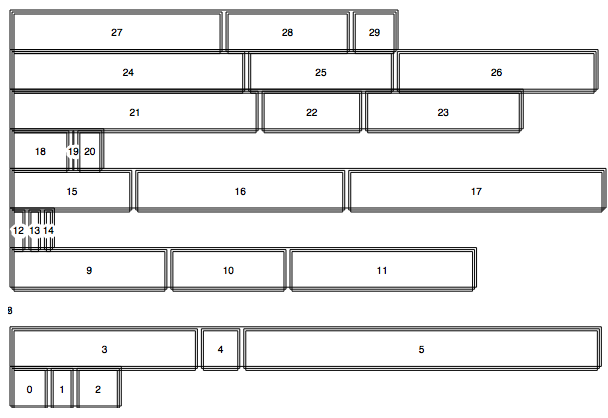
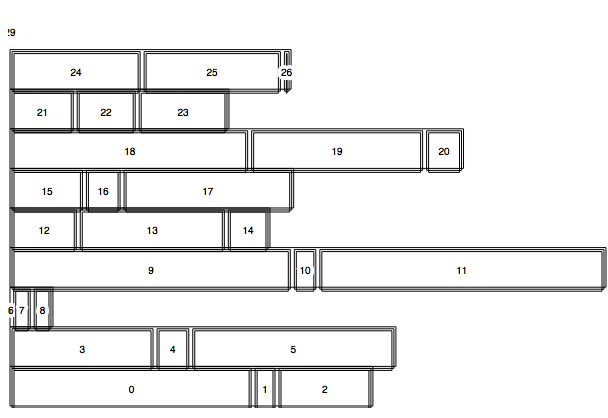
More examples

diff --git a/example/capture/display.html b/example/capture/display.html
@@ -1,1 +1,1 @@
-<html><head></head><body><a href="../../example/placeholder-utils.html"><div style="width:200px; float:left; border: 1px solid black"><img src="figures/placeholder.png" style="width: 100%;"></div></a><a href="../../example/modes.html"><div style="width:200px; float:left; border: 1px solid black"><img src="figures/modes.png" style="width: 100%;"></div></a><a href="../../example/modes-permutation.html"><div style="width:200px; float:left; border: 1px solid black"><img src="figures/modes-permutation.png" style="width: 100%;"></div></a><a href="../../example/modes-permutation.html"><div style="width:200px; float:left; border: 1px solid black"><img src="figures/modes-permutation.png" style="width: 100%;"></div></a><a href="../../example/histogram.html"><div style="width:200px; float:left; border: 1px solid black"><img src="figures/grid-histogram.png" style="width: 100%;"></div></a><a href="../../example/histogram-grid.html"><div style="width:200px; float:left; border: 1px solid black"><img src="figures/grid-histogram-grid.png" style="width: 100%;"></div></a><a href="../../example/barchart-grouped.html"><div style="width:200px; float:left; border: 1px solid black"><img src="figures/grid-barchart-grouped.png" style="width: 100%;"></div></a><a href="../../example/barchart-overlap.html"><div style="width:200px; float:left; border: 1px solid black"><img src="figures/grid-barchart-overlap.png" style="width: 100%;"></div></a><a href="../../example/barchart-stacked.html"><div style="width:200px; float:left; border: 1px solid black"><img src="figures/grid-barchart-stacked.png" style="width: 100%;"></div></a><a href="../../example/barchart-horizon.html"><div style="width:200px; float:left; border: 1px solid black"><img src="figures/grid-barchart-horizon.png" style="width: 100%;"></div></a><a href="../../example/barchart-population.html"><div style="width:200px; float:left; border: 1px solid black"><img src="figures/grid-barchart-population.png" style="width: 100%;"></div></a><a href="../../example/bar-chart-treemap/index-gridding.html"><div style="width:200px; float:left; border: 1px solid black"><img src="figures/grid-bar-chart-treemap2.png" style="width: 100%;"></div></a><a href="../../example/scatterplot.html"><div style="width:200px; float:left; border: 1px solid black"><img src="figures/grid-scatterplot.png" style="width: 100%;"></div></a><a href="../../example/scatterplot-barchart.html"><div style="width:200px; float:left; border: 1px solid black"><img src="figures/grid-scatterplot-barchart.png" style="width: 100%;"></div></a><a href="../../example/grid-order.html"><div style="width:200px; float:left; border: 1px solid black"><img src="figures/grid-order.png" style="width: 100%;"></div></a><a href="../../example/grid-order-group.html"><div style="width:200px; float:left; border: 1px solid black"><img src="figures/grid-order-group.png" style="width: 100%;"></div></a><a href="../../example/grid-canvas.html"><div style="width:200px; float:left; border: 1px solid black"><img src="figures/grid-canvas.png" style="width: 100%;"></div></a><a href="../../example/scatterdice/scatterdice.html"><div style="width:200px; float:left; border: 1px solid black"><img src="figures/grid-scatterdice.png" style="width: 100%;"></div></a><a href="../../example/divide.html"><div style="width:200px; float:left; border: 1px solid black"><img src="figures/divide.png" style="width: 100%;"></div></a><a href="../../example/chess.html"><div style="width:200px; float:left; border: 1px solid black"><img src="figures/chess.png" style="width: 100%;"></div></a><a href="../../example/tree-double.html"><div style="width:200px; float:left; border: 1px solid black"><img src="figures/tree-double.png" style="width: 100%;"></div></a><a href="../../example/quadrants.html"><div style="width:200px; float:left; border: 1px solid black"><img src="figures/quadrants.png" style="width: 100%;"></div></a><a href="../../example/quadrants-utils.html"><div style="width:200px; float:left; border: 1px solid black"><img src="figures/quadrants-utils.png" style="width: 100%;"></div></a><a href="../../example/table.html"><div style="width:200px; float:left; border: 1px solid black"><img src="figures/grid-table.png" style="width: 100%;"></div></a><a href="../../example/table-stacked.html"><div style="width:200px; float:left; border: 1px solid black"><img src="figures/grid-table-stacked.png" style="width: 100%;"></div></a><a href="../../example/table-stacked-sorted.html"><div style="width:200px; float:left; border: 1px solid black"><img src="figures/grid-table-stacked-sorted.png" style="width: 100%;"></div></a><a href="../../example/lineup.html"><div style="width:200px; float:left; border: 1px solid black"><img src="figures/grid-lineup.png" style="width: 100%;"></div></a><a href="../../example/vertical-items.html"><div style="width:200px; float:left; border: 1px solid black"><img src="figures/grid-vertical-items.png" style="width: 100%;"></div></a><a href="../../example/vertical-width.html"><div style="width:200px; float:left; border: 1px solid black"><img src="figures/grid-vertical-width.png" style="width: 100%;"></div></a><a href="../../example/vertical-height.html"><div style="width:200px; float:left; border: 1px solid black"><img src="figures/grid-vertical-height.png" style="width: 100%;"></div></a><a href="../../example/vertical-width-height.html"><div style="width:200px; float:left; border: 1px solid black"><img src="figures/grid-vertical-width-height.png" style="width: 100%;"></div></a><a href="../../example/margin.html"><div style="width:200px; float:left; border: 1px solid black"><img src="figures/grid-maring.png" style="width: 100%;"></div></a><a href="../../example/line25d/layers-25D.html"><div style="width:200px; float:left; border: 1px solid black"><img src="figures/layers-25D.png" style="width: 100%;"></div></a><a href="../../example/barchart-grouped-top.html"><div style="width:200px; float:left; border: 1px solid black"><img src="figures/horror-barchart-grouped-top.png" style="width: 100%;"></div></a><a href="../../example/layout-all.html"><div style="width:200px; float:left; border: 1px solid black"><img src="figures/layout-all.png" style="width: 100%;"></div></a></body></html>
+<html><head></head><body><a href="../../example/placeholder-utils.html"><div style="width:200px; float:left; border: 1px solid black"><img src="figures/placeholder.png" style="width: 100%;"></div></a><a href="../../example/modes.html"><div style="width:200px; float:left; border: 1px solid black"><img src="figures/modes.png" style="width: 100%;"></div></a><a href="../../example/modes-permutation.html"><div style="width:200px; float:left; border: 1px solid black"><img src="figures/modes-permutation.png" style="width: 100%;"></div></a><a href="../../example/modes-permutation.html"><div style="width:200px; float:left; border: 1px solid black"><img src="figures/modes-permutation.png" style="width: 100%;"></div></a><a href="../../example/histogram.html"><div style="width:200px; float:left; border: 1px solid black"><img src="figures/grid-histogram.png" style="width: 100%;"></div></a><a href="../../example/histogram-grid.html"><div style="width:200px; float:left; border: 1px solid black"><img src="figures/grid-histogram-grid.png" style="width: 100%;"></div></a><a href="../../example/barchart-grouped.html"><div style="width:200px; float:left; border: 1px solid black"><img src="figures/grid-barchart-grouped.png" style="width: 100%;"></div></a><a href="../../example/barchart-overlap.html"><div style="width:200px; float:left; border: 1px solid black"><img src="figures/grid-barchart-overlap.png" style="width: 100%;"></div></a><a href="../../example/barchart-stacked.html"><div style="width:200px; float:left; border: 1px solid black"><img src="figures/grid-barchart-stacked.png" style="width: 100%;"></div></a><a href="../../example/barchart-horizon.html"><div style="width:200px; float:left; border: 1px solid black"><img src="figures/grid-barchart-horizon.png" style="width: 100%;"></div></a><a href="../../example/barchart-population.html"><div style="width:200px; float:left; border: 1px solid black"><img src="figures/grid-barchart-population.png" style="width: 100%;"></div></a><a href="../../example/bar-chart-treemap/index-gridding.html"><div style="width:200px; float:left; border: 1px solid black"><img src="figures/grid-bar-chart-treemap2.png" style="width: 100%;"></div></a><a href="../../example/scatterplot.html"><div style="width:200px; float:left; border: 1px solid black"><img src="figures/grid-scatterplot.png" style="width: 100%;"></div></a><a href="../../example/scatterplot-barchart.html"><div style="width:200px; float:left; border: 1px solid black"><img src="figures/grid-scatterplot-barchart.png" style="width: 100%;"></div></a><a href="../../example/grid-order.html"><div style="width:200px; float:left; border: 1px solid black"><img src="figures/grid-order.png" style="width: 100%;"></div></a><a href="../../example/grid-order-group.html"><div style="width:200px; float:left; border: 1px solid black"><img src="figures/grid-order-group.png" style="width: 100%;"></div></a><a href="../../example/grid-orient-top.html"><div style="width:200px; float:left; border: 1px solid black"><img src="figures/grid-orient-top.png" style="width: 100%;"></div></a><a href="../../example/grid-orient-left.html"><div style="width:200px; float:left; border: 1px solid black"><img src="figures/grid-orient-left.png" style="width: 100%;"></div></a><a href="../../example/grid-canvas.html"><div style="width:200px; float:left; border: 1px solid black"><img src="figures/grid-canvas.png" style="width: 100%;"></div></a><a href="../../example/scatterdice/scatterdice.html"><div style="width:200px; float:left; border: 1px solid black"><img src="figures/grid-scatterdice.png" style="width: 100%;"></div></a><a href="../../example/divide.html"><div style="width:200px; float:left; border: 1px solid black"><img src="figures/divide.png" style="width: 100%;"></div></a><a href="../../example/chess.html"><div style="width:200px; float:left; border: 1px solid black"><img src="figures/chess.png" style="width: 100%;"></div></a><a href="../../example/tree-double.html"><div style="width:200px; float:left; border: 1px solid black"><img src="figures/tree-double.png" style="width: 100%;"></div></a><a href="../../example/quadrants.html"><div style="width:200px; float:left; border: 1px solid black"><img src="figures/quadrants.png" style="width: 100%;"></div></a><a href="../../example/quadrants-utils.html"><div style="width:200px; float:left; border: 1px solid black"><img src="figures/quadrants-utils.png" style="width: 100%;"></div></a><a href="../../example/table.html"><div style="width:200px; float:left; border: 1px solid black"><img src="figures/grid-table.png" style="width: 100%;"></div></a><a href="../../example/table-stacked.html"><div style="width:200px; float:left; border: 1px solid black"><img src="figures/grid-table-stacked.png" style="width: 100%;"></div></a><a href="../../example/table-stacked-sorted.html"><div style="width:200px; float:left; border: 1px solid black"><img src="figures/grid-table-stacked-sorted.png" style="width: 100%;"></div></a><a href="../../example/lineup.html"><div style="width:200px; float:left; border: 1px solid black"><img src="figures/grid-lineup.png" style="width: 100%;"></div></a><a href="../../example/vertical-items.html"><div style="width:200px; float:left; border: 1px solid black"><img src="figures/grid-vertical-items.png" style="width: 100%;"></div></a><a href="../../example/vertical-width.html"><div style="width:200px; float:left; border: 1px solid black"><img src="figures/grid-vertical-width.png" style="width: 100%;"></div></a><a href="../../example/vertical-height.html"><div style="width:200px; float:left; border: 1px solid black"><img src="figures/grid-vertical-height.png" style="width: 100%;"></div></a><a href="../../example/vertical-width-height.html"><div style="width:200px; float:left; border: 1px solid black"><img src="figures/grid-vertical-width-height.png" style="width: 100%;"></div></a><a href="../../example/horizontal-utils.html"><div style="width:200px; float:left; border: 1px solid black"><img src="figures/grid-horizontal.png" style="width: 100%;"></div></a><a href="../../example/margin.html"><div style="width:200px; float:left; border: 1px solid black"><img src="figures/grid-maring.png" style="width: 100%;"></div></a><a href="../../example/line25d/layers-25D.html"><div style="width:200px; float:left; border: 1px solid black"><img src="figures/layers-25D.png" style="width: 100%;"></div></a><a href="../../example/barchart-grouped-top.html"><div style="width:200px; float:left; border: 1px solid black"><img src="figures/horror-barchart-grouped-top.png" style="width: 100%;"></div></a><a href="../../example/layout-all.html"><div style="width:200px; float:left; border: 1px solid black"><img src="figures/layout-all.png" style="width: 100%;"></div></a></body></html>

diff --git a/example/horizontal-barchart.html b/example/horizontal-barchart.html
@@ -1,0 +1,63 @@
+<!DOCTYPE html>
+<meta charset="utf-8">
+<style>
+body {
+  font-family: Helvetica;
+  font-size: 10px;
+}
+.point {
+  fill: black;
+}
+
+rect, circle {
+  fill: none;
+  stroke: black;
+  stroke-width: 1;
+}
+</style>
+<body>
+<!-- <script src="http://d3js.org/d3.v4.js"></script> -->
+<script src="../node_modules/d3/build/d3.js"></script>
+<script src="../build/d3-gridding.js"></script>
+<script>
+
+var width = 400,
+    height = 300;
+
+var gridding = d3.gridding()
+  .size([width, height])
+  .valueWidth("r")
+  .orient("left")
+  .mode("horizontal");
+
+// var abc = "abcdefghijklmnopqrstuvwxyzABCDEFGHIJKLMNOPQRSTUVWXYZ".split("");
+
+var data =  d3.range(10).map(function(d, i) {
+  return {x: d, y: i, r: Math.random(), index: i, value: String.fromCharCode(i)};
+});
+
+var griddingData = gridding(data);
+
+var svgSquares = d3.select("body").append("svg")
+    .attr("width", width)
+    .attr("height", height)
+  .append("g");
+
+svgSquares.selectAll(".square")
+    .data(griddingData, function(d) { return d.index; })
+  .enter().append("rect")
+    .attr("class", "square")
+    .attr("width", function(d) { return d.width; })
+    .attr("height", function(d) { return d.height; })
+    .attr("transform", function(d) { return "translate(" + d.x + "," + d.y + ")"; })
+
+svgSquares.selectAll(".index")
+    .data(griddingData)
+  .enter().append("text")
+    .attr("class", "index")
+    .style('text-anchor', 'middle')
+    .style('dominant-baseline', 'central')
+    .attr("transform", function(d) { return "translate(" + d.cx + "," + d.cy + ")"; })
+    .text(function(d, i) { return d.__value; });
+
+</script>

diff --git a/example/grid-orient.html b/example/grid-orient.html
@@ -1,0 +1,70 @@
+<!DOCTYPE html>
+<meta charset="utf-8">
+<style>
+body {
+  font-family: Helvetica;
+  font-size: 10px;
+}
+.point {
+  fill: black;
+}
+
+rect, circle {
+  fill: none;
+  stroke: black;
+  stroke-width: 1;
+}
+</style>
+<body>
+<script src="../node_modules/d3/build/d3.js"></script>
+<script src="../build/d3-gridding.js"></script>
+<script src="utils/utils.js"></script>
+<script>
+
+var width = 400,
+    height = 100;
+
+var gridding = d3.gridding()
+  .size([width, height])
+  .mode("grid");
+
+var data = [];
+
+d3.range(1).map(function(d) {
+  ["up", "down", "left", "right"].map(function(e) {
+      d3.range(14).map(function(f) {
+        data.push({"root": d, "level2": e, "level3": f});
+      });
+  });
+});
+
+var params = [{
+  "size": function() { return [width, height]; },
+  "offset": function(d) { return [0, 0]; },
+  "mode": "vertical",
+  "padding": 2
+}, {
+  "size": function(d) { return [d.width, d.height]; },
+  "offset": function(d) { return [d.x, d.y]; },
+  "mode": "grid",
+  "padding": 2,
+  "orient": function(d) { console.log("TOTOTO", d); return d.key; }
+}];
+
+
+var nested_data2 = d3.nest()
+    .key(function(d) { return d["root"]; })
+    .key(function(d) { return d["level2"]; })
+    .entries(data);
+
+var svgSquares = d3.select("body").append("svg")
+    .attr("width", width*2)
+    .attr("height", height*2)
+  .append("g");
+
+draw(svgSquares, nested_data2[0], params, 0, "0_");
+
+d3.selectAll(".index").remove();
+d3.selectAll(".square0_").remove();
+
+</script>

diff --git a/example/grid-orient-top.html b/example/grid-orient-top.html
@@ -16,7 +16,6 @@ rect, circle, line {
 }
 </style>
 <body>
-<!-- <script src="http://d3js.org/d3.v4.js"></script> -->
 <script src="../node_modules/d3/build/d3.js"></script>
 <script src="../build/d3-gridding.js"></script>
 <script src="utils/utils.js"></script>
@@ -25,17 +24,25 @@ rect, circle, line {
 var width = 400,
     height = 300;
 
-var data = d3.range(10).map(function(d, i) {
+var data = "abcdefghijklmnopqrstuvwxyzABCDEFGHIJKLMNOPQRSTUVWXYZ".split("").map(function(d, i) {
     return {"index": i, "value": d, "prop": "static"};
   });
 
 var params = [{
   "size": function() { return [width, height]; },
   "offset": function(d) { return [0, 0]; },
-  "mode": "horizontal",
+  "mode": "grid",
   "padding": 2,
   "level": 0
-}];
+}
+//, {
+//  "size": function(d) { return [d.width, d.height]; },
+//  "offset": function(d) { return [d.x, d.y]; },
+//  "mode": "vertical",
+//  "padding": 2,
+//  "level": 1
+//}
+];
 
 var svgSquares = d3.select("body").append("svg")
     .attr("width", width)
@@ -44,11 +51,16 @@ var svgSquares = d3.select("body").append("svg")
 
 function update() {
 
+  //nested_data = d3.nest()
+  //    .key(function(d, i) { return i; })
+  //    .entries(data);
+
   var nested_data = generate_nesting([""], "data")
 
   draw(svgSquares, nested_data[0], params, 0, "0_", false);
 
   d3.selectAll(".index").remove();
+
 }
 
 update();

diff --git a/example/capture/capture.js b/example/capture/capture.js
@@ -97,6 +97,18 @@ var figures = [{
     timeout: 500,
     size: [400, 300]
   }, {
+    url: "example/grid-orient-top.html",
+    format: "png",
+    filename: "grid-orient-top.png",
+    timeout: 500,
+    size: [400, 300]
+  }, {
+    url: "example/grid-orient-left.html",
+    format: "png",
+    filename: "grid-orient-left.png",
+    timeout: 500,
+    size: [400, 300]
+  }, {
     url: "example/grid-canvas.html",
     format: "png",
     filename: "grid-canvas.png",
@@ -175,6 +187,11 @@ var figures = [{
     url: "example/vertical-width-height.html",
     format: "png",
     filename: "grid-vertical-width-height.png",
+    timeout: 500
+  }, {
+    url: "example/horizontal-utils.html",
+    format: "png",
+    filename: "grid-horizontal.png",
     timeout: 500
   }, {
     url: "example/margin.html",
